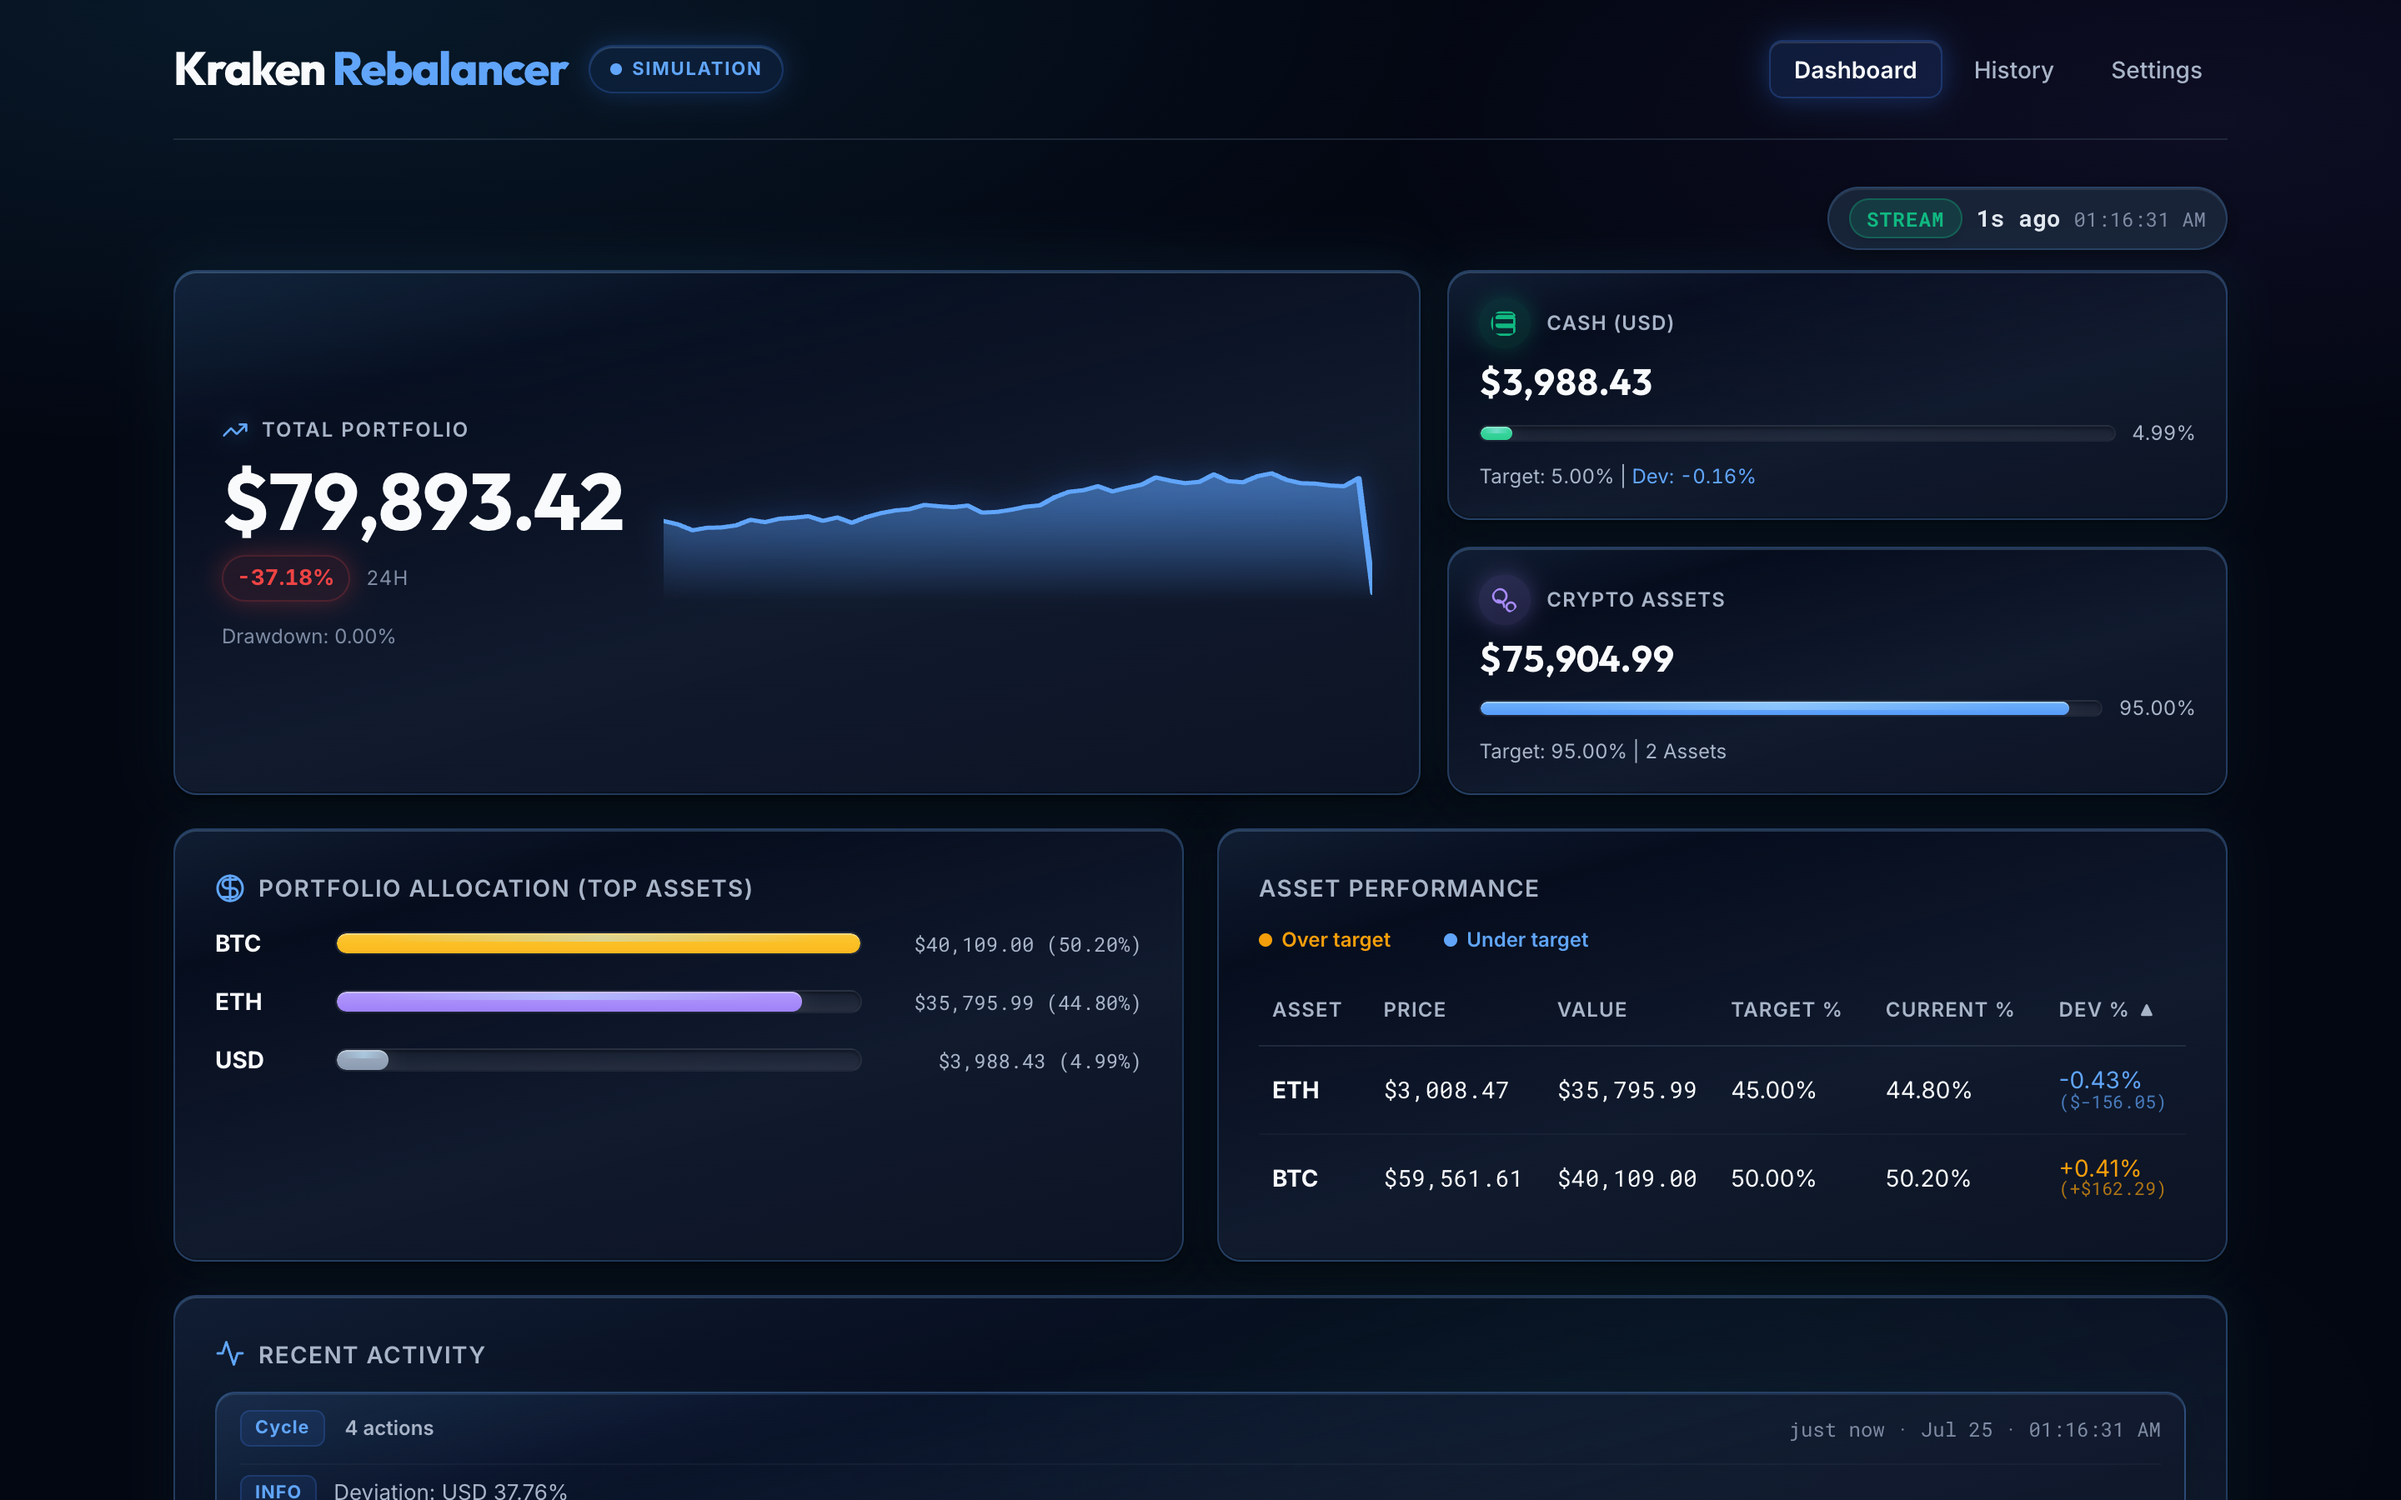
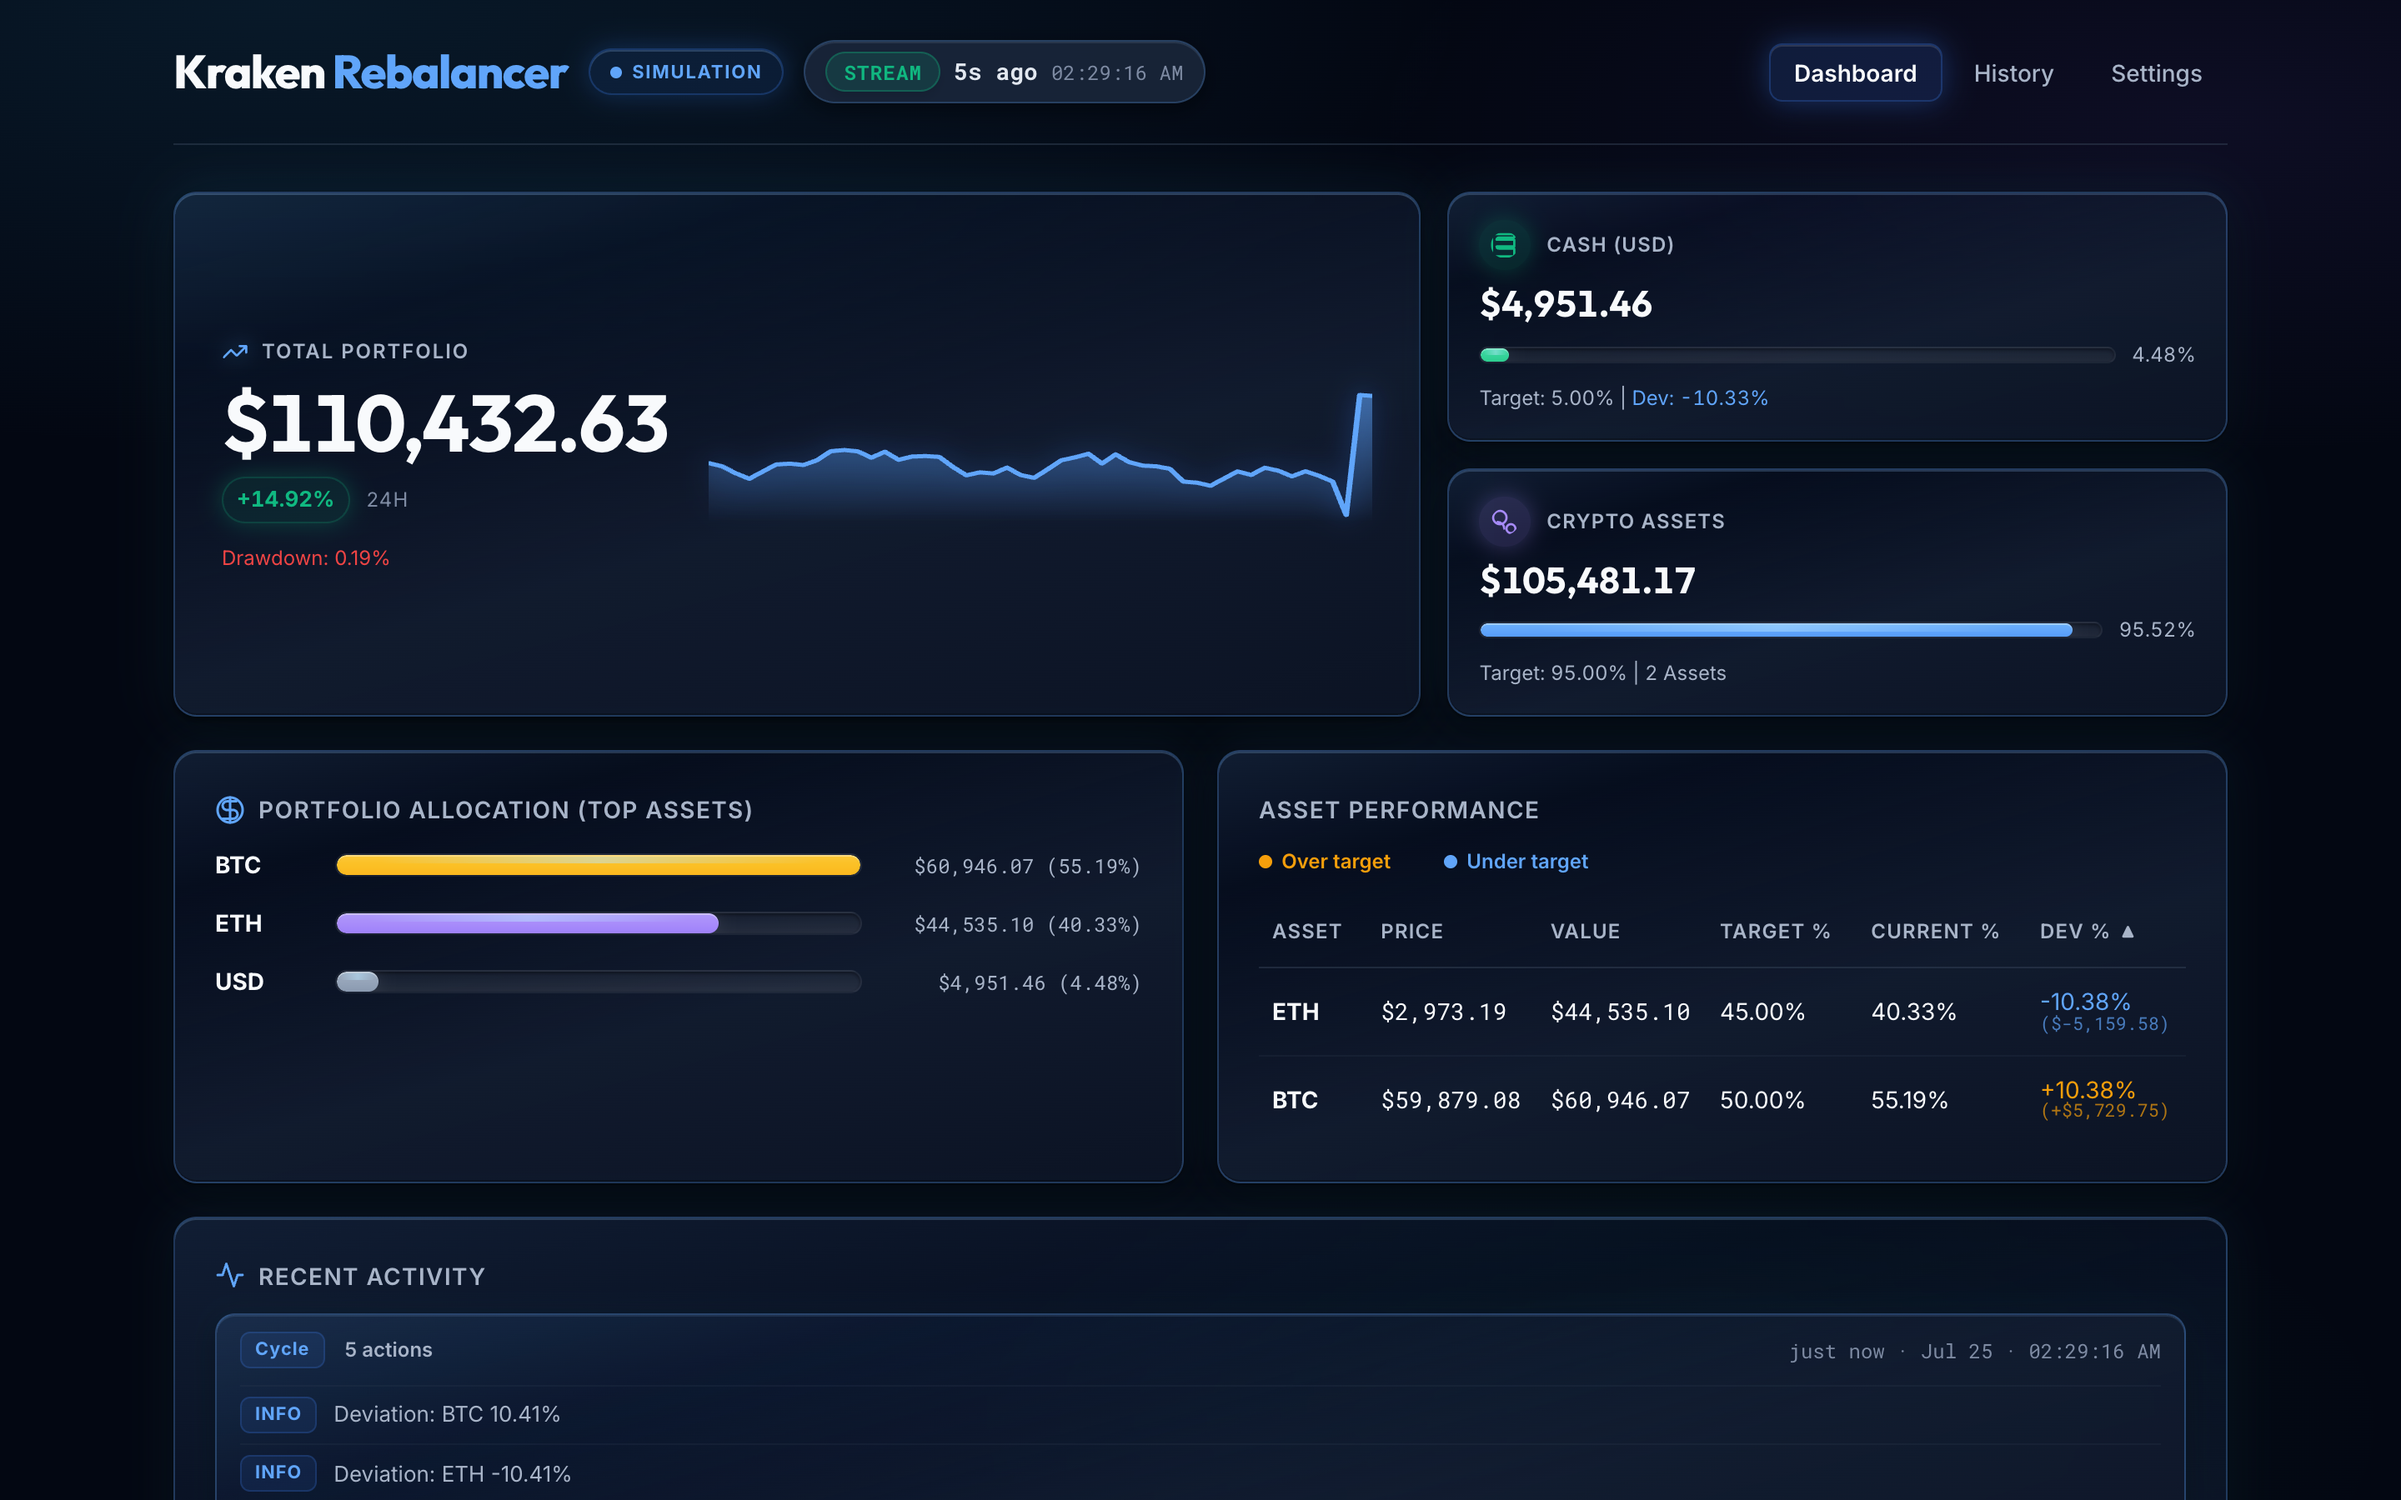
feat: move STREAM chip beside mode plate in dashboard header

diff --git a/src/main/kotlin/com/gemini/krakenbot/view/component/DashboardFragmentComponent.kt b/src/main/kotlin/com/gemini/krakenbot/view/component/DashboardFragmentComponent.kt
@@ -4,6 +4,9 @@ import com.gemini.krakenbot.model.PortfolioSnapshot
 import com.gemini.krakenbot.util.PrecisionConstants
 import com.gemini.krakenbot.view.util.CssClass
 import com.gemini.krakenbot.view.util.HtmlAttrs
+import com.gemini.krakenbot.view.util.HtmlIds
+import com.gemini.krakenbot.view.util.HtmxAttrs
+import com.gemini.krakenbot.view.util.HtmxValues
 import com.gemini.krakenbot.view.util.ViewText
 import com.gemini.krakenbot.view.util.div
 import com.gemini.krakenbot.view.util.span
@@ -30,8 +33,8 @@ class DashboardFragmentComponent(
             )
         val isStale = timeSinceUpdate > PrecisionConstants.STALE_THRESHOLD_SECONDS
 
-        // Brand + mode plate + nav live in DashboardShell (outside this HTMX swap target).
-        // The fragment only refreshes stream health so SSE updates keep STREAM/STALE fresh.
+        // Brand + mode plate + nav + stream slot live in DashboardShell. Stream health
+        // is refreshed out-of-band so SSE swaps keep STREAM/STALE in the header cluster.
         renderStreamStatus(latest, timeSinceUpdate, isStale)
         overviewGridComponent.render(latest, history)
 
@@ -45,18 +48,18 @@ class DashboardFragmentComponent(
 
     context(div: DIV)
     private fun renderStreamStatus(latest: PortfolioSnapshot, timeSinceUpdate: Long, isStale: Boolean) {
-        div.div(CssClass.Layout.HeaderActions) {
-            div(CssClass.Layout.HeaderStatus) {
-                val badgeClass = if (isStale) CssClass.StatusCard.Delayed else CssClass.StatusCard.Live
-                val badgeText = if (isStale) ViewText.STREAM_STALE else ViewText.STREAM
-                div(badgeClass) { +badgeText }
-                val ageClass = if (isStale) CssClass.DataAge.ValueStale else CssClass.DataAge.Value
-                span(ageClass) { +"$timeSinceUpdate${ViewText.AGO_SECONDS}" }
-                span(CssClass.DataAge.Time) {
-                    attributes[HtmlAttrs.DATA_EPOCH] =
-                        latest.timestamp.toEpochMilli().toString()
-                    +timeFormatter.format(latest.timestamp)
-                }
+        div.div(CssClass.Layout.HeaderStatus) {
+            id = HtmlIds.HEADER_STATUS
+            attributes[HtmxAttrs.HX_SWAP_OOB] = HtmxValues.TRUE
+            val badgeClass = if (isStale) CssClass.StatusCard.Delayed else CssClass.StatusCard.Live
+            val badgeText = if (isStale) ViewText.STREAM_STALE else ViewText.STREAM
+            div(badgeClass) { +badgeText }
+            val ageClass = if (isStale) CssClass.DataAge.ValueStale else CssClass.DataAge.Value
+            span(ageClass) { +"$timeSinceUpdate${ViewText.AGO_SECONDS}" }
+            span(CssClass.DataAge.Time) {
+                attributes[HtmlAttrs.DATA_EPOCH] =
+                    latest.timestamp.toEpochMilli().toString()
+                +timeFormatter.format(latest.timestamp)
             }
         }
     }

diff --git a/src/main/kotlin/com/gemini/krakenbot/view/util/Layouts.kt b/src/main/kotlin/com/gemini/krakenbot/view/util/Layouts.kt
@@ -67,11 +67,31 @@ fun FlowContent.modePlate(settings: Settings) {
     }
 }
 
-/** Standard header brand + mode plate group used across all pages (DASH-2). */
-fun FlowContent.brandWithMode(settings: Settings) {
+/**
+ * Dashboard-only placeholder for the STREAM/STALE chip. Lives in the shell so
+ * the header cluster is complete before the HTMX fragment arrives; the fragment
+ * refreshes this node via `hx-swap-oob`.
+ */
+fun FlowContent.streamStatusPlaceholder() {
+    div(CssClass.Layout.HeaderStatus) {
+        id = HtmlIds.HEADER_STATUS
+        div(CssClass.StatusCard.Live) { +ViewText.STREAM }
+        span(CssClass.DataAge.Value) { +"…" }
+    }
+}
+
+/**
+ * Standard header brand + mode plate group used across all pages (DASH-2).
+ * Pass [includeStreamSlot] on the Dashboard shell so STREAM sits beside the
+ * mode plate (not on a separate right-aligned row).
+ */
+fun FlowContent.brandWithMode(settings: Settings, includeStreamSlot: Boolean = false) {
     div(CssClass.Layout.HeaderTitleSection) {
         brandMark()
         modePlate(settings)
+        if (includeStreamSlot) {
+            streamStatusPlaceholder()
+        }
     }
 }
 

diff --git a/common/src/commonMain/kotlin/com/gemini/krakenbot/view/util/HtmlAttrs.kt b/common/src/commonMain/kotlin/com/gemini/krakenbot/view/util/HtmlAttrs.kt
@@ -40,6 +40,7 @@ object HtmxAttrs {
     const val HX_GET = "hx-get"
     const val HX_POST = "hx-post"
     const val HX_SWAP = "hx-swap"
+    const val HX_SWAP_OOB = "hx-swap-oob"
     const val HX_TARGET = "hx-target"
     const val HX_TRIGGER = "hx-trigger"
     const val SSE_CONNECT = "sse-connect"
@@ -48,6 +49,7 @@ object HtmxAttrs {
 object HtmxValues {
     const val BODY = "body"
     const val INNER_HTML = "innerHTML"
+    const val TRUE = "true"
     const val EXT_SSE = "sse"
     const val TRIGGER_LOAD_SSE_MESSAGE = "load, sse:message"
 }
@@ -75,6 +77,9 @@ object HtmlIds {
     const val NEW_SYMBOL_INPUT = "new-symbol-input"
     const val MODE_PLATE = "mode-plate"
     const val MODE_PLATE_LABEL = "mode-plate-label"
+
+    /** Dashboard stream-health chip; SSE fragment updates it via hx-swap-oob. */
+    const val HEADER_STATUS = "header-status"
 
     // History Page IDs
     const val HISTORY_STATS = "history-stats"

diff --git a/src/test/kotlin/com/gemini/krakenbot/view/DashboardViewTest.kt b/src/test/kotlin/com/gemini/krakenbot/view/DashboardViewTest.kt
@@ -115,6 +115,8 @@ class DashboardViewTest : StringSpec() {
             html shouldContain "sse-connect=\"${API_STATUS_STREAM}\""
             html shouldContain CONNECTING
             html shouldContain MODE_DRY_RUN
+            html shouldContain "id=\"header-status\""
+            html shouldContain STREAM
         }
 
         "renderDashboardShell_simulationMode_rendersSimulationPlate" {
@@ -228,6 +230,8 @@ class DashboardViewTest : StringSpec() {
             }
 
             html shouldContain STREAM
+            html shouldContain "id=\"header-status\""
+            html shouldContain "hx-swap-oob=\"true\""
             html shouldContain TOTAL_PORTFOLIO
             html shouldContain "$10,000.00"
             html shouldContain CASH_USD

diff --git a/src/main/kotlin/com/gemini/krakenbot/view/component/DashboardShellComponent.kt b/src/main/kotlin/com/gemini/krakenbot/view/component/DashboardShellComponent.kt
@@ -29,7 +29,7 @@ class DashboardShellComponent {
                 // Mode plate + nav live outside the HTMX fragment so the trading mode
                 // is visible during the initial load (and if the fragment request fails).
                 header {
-                    brandWithMode(settings)
+                    brandWithMode(settings, includeStreamSlot = true)
                     primaryNav(ActiveNav.DASHBOARD)
                 }
                 div {

diff --git a/src/main/kotlin/com/gemini/krakenbot/view/css/LayoutStyles.kt b/src/main/kotlin/com/gemini/krakenbot/view/css/LayoutStyles.kt
@@ -61,6 +61,7 @@ object LayoutStyles {
             display = Display.flex
             alignItems = Align.center
             gap = 0.75.rem
+            flexWrap = FlexWrap.wrap
         }
 
         ".${CssClass.Layout.HeaderTitleSection} h1, .${CssClass.Layout.BrandMark}" {

diff --git a/.agents/skills/ui-visual-implement/SKILL.md b/.agents/skills/ui-visual-implement/SKILL.md
@@ -95,7 +95,7 @@ Rules:
 | Invariant | Owned by | Regression looks like |
 | :--- | :--- | :--- |
 | Mode plate on every page | `view/util/Layouts.kt` (`brandWithMode`) | Settings or History header renders `brandMark()` alone |
-| Stream chip separate from mode | `DashboardFragmentComponent`, `frontend-js` `Dashboard.kt` | Chip labelled `LIVE` again (reads as live trading) instead of `STREAM` / `STALE` |
+| Stream chip separate from mode | `Layouts.streamStatusPlaceholder` + `DashboardFragmentComponent` OOB swap, `frontend-js` `Dashboard.kt` | Chip labelled `LIVE` again (reads as live trading) instead of `STREAM` / `STALE`; chip back on a separate right-aligned row |
 | Hero value + 24H delta + sparkline | `OverviewGridComponent` | Back to three equal status cards; empty sparkline slot |
 | Cash / Crypto tile progress bars | `OverviewGridComponent.renderTileBar` | Bar width detached from the stated percentage |
 | Cycle-grouped activity + View all | `RecentActivityComponent` | Flat time/action table returns; link dropped |

diff --git a/docs/USER_GUIDE.md b/docs/USER_GUIDE.md
@@ -51,10 +51,10 @@ funds").
 | **Settings** | `/settings` | Loop timing, triggers, fiat deployment, safety modes, allocations |
 
 The dashboard pushes live updates over Server-Sent Events (`/api/status/stream`).
-**Only the Dashboard** shows a stream-health chip next to the tabs: **STREAM**
-(green) when data is flowing, or **STALE** when the last snapshot is older than
-**90 seconds**. Beside
-it are the relative age of the last update (e.g. `12s`) and its clock time.
+**Only the Dashboard** shows a stream-health chip in the header next to the mode
+plate: **STREAM** (green) when data is flowing, or **STALE** when the last
+snapshot is older than **90 seconds**. Beside it are the relative age of the
+last update (e.g. `12s`) and its clock time.
 
 The stream chip describes **feed health, not trading mode** — a healthy
 **STREAM** chip does not mean live trading is on. Always read the mode plate for

diff --git a/CHANGELOG.md b/CHANGELOG.md
@@ -6,6 +6,16 @@ The format is based on [Keep a Changelog](https://keepachangelog.com/en/1.0.0/),
 and this project adheres
 to [Semantic Versioning](https://semver.org/spec/v2.0.0.html).
 
+## [Unreleased]
+
+### Changed
+
+- **Dashboard stream chip placement**: STREAM/STALE + age/time sit in the header
+  beside the mode plate (Brand · Mode · Stream · Nav) instead of a separate
+  right-aligned row above the hero. The shell owns a placeholder; the HTMX/SSE
+  fragment refreshes it via `hx-swap-oob`. Updated `docs/images/dashboard*.png`
+  and `docs/USER_GUIDE.md` to match.
+
 ## [6.13.2] - 2026-07-25
 
 ### Added

diff --git a/.agents/skills/ktor-html-views/SKILL.md b/.agents/skills/ktor-html-views/SKILL.md
@@ -70,7 +70,9 @@ persisted `Settings`, with strict precedence:
 - Each plate carries a `MODE_*_TITLE` tooltip; live trading is styled as
   high-consequence. **Never** drop, hide, or downgrade the plate.
 - The header's separate stream chip (`ViewText.STREAM` / `STREAM_STALE`) reports
-  SSE freshness only and must not read as live trading.
+  SSE freshness only and must not read as live trading. On the Dashboard it sits
+  beside the mode plate in `HeaderTitleSection`; the shell renders a placeholder
+  and the fragment refreshes `#header-status` via `hx-swap-oob`.
 
 ### Settings must reach the renderers
 
